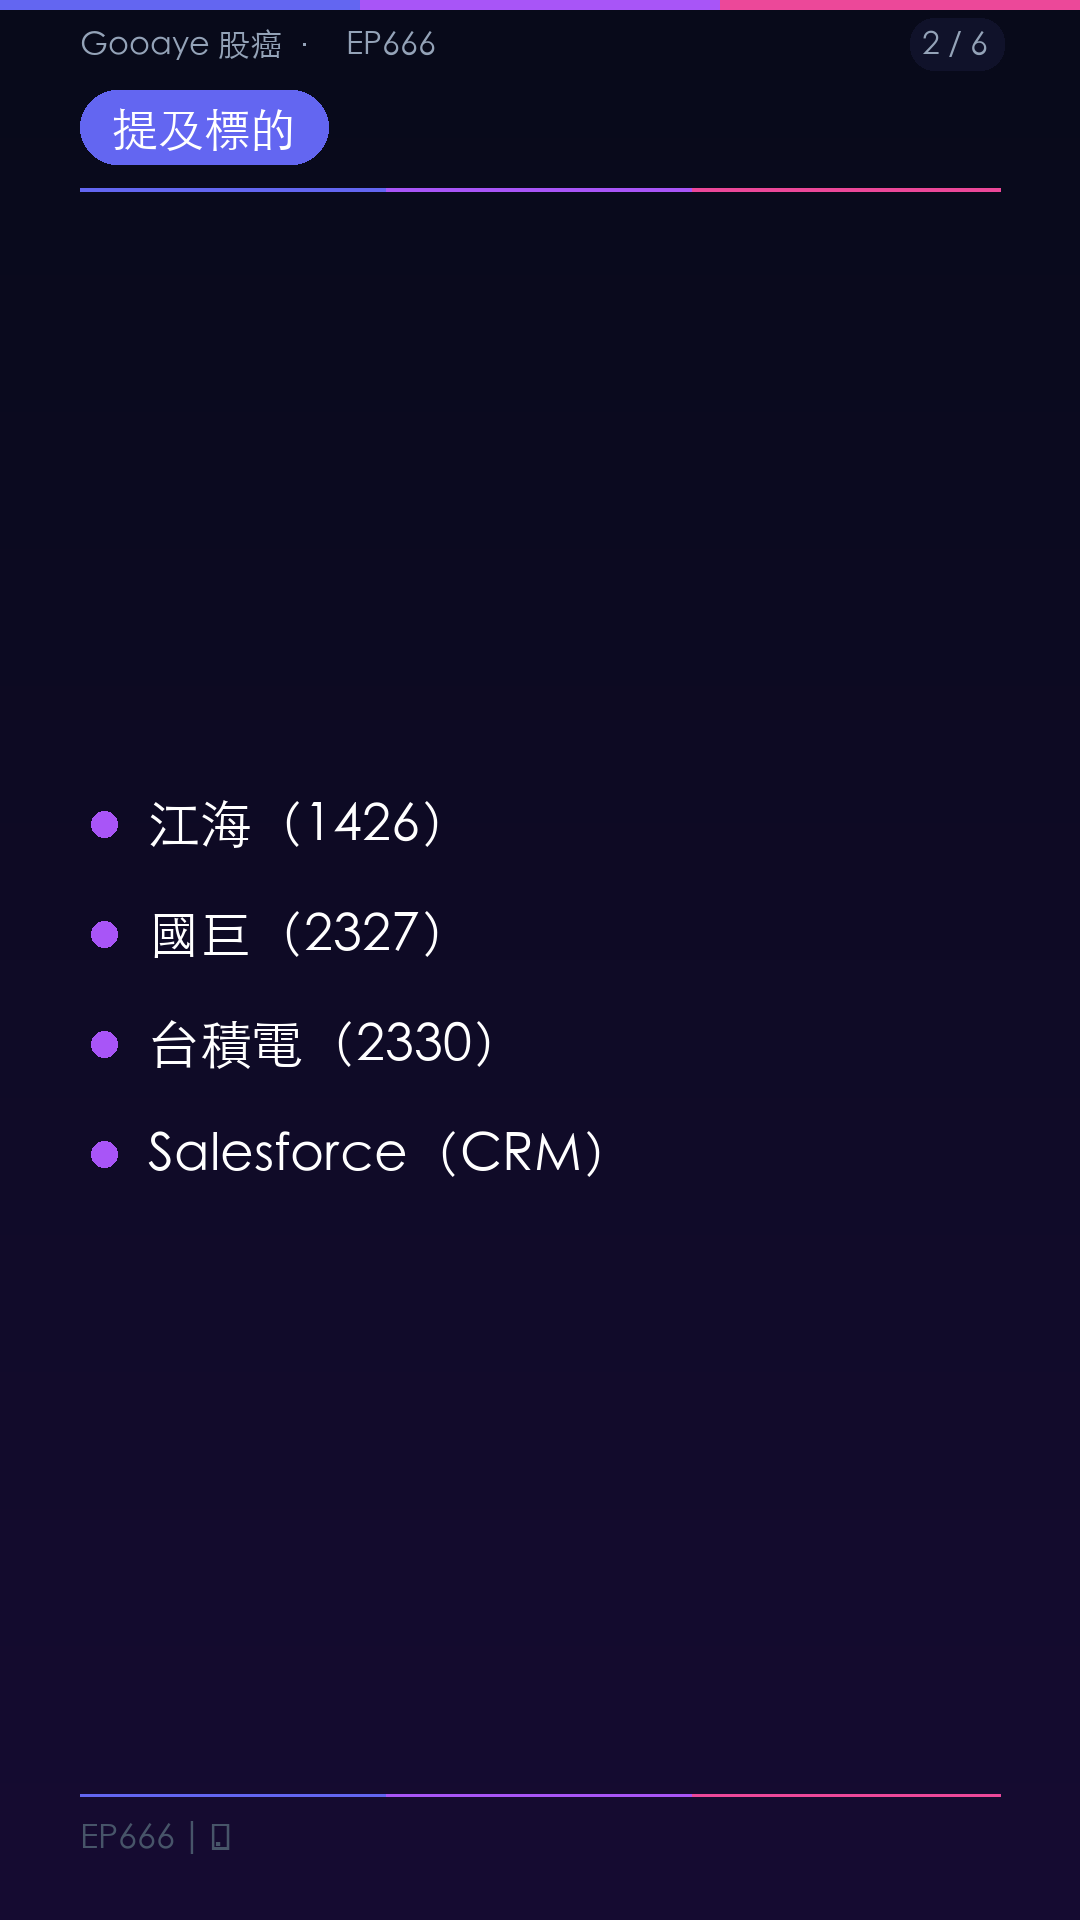
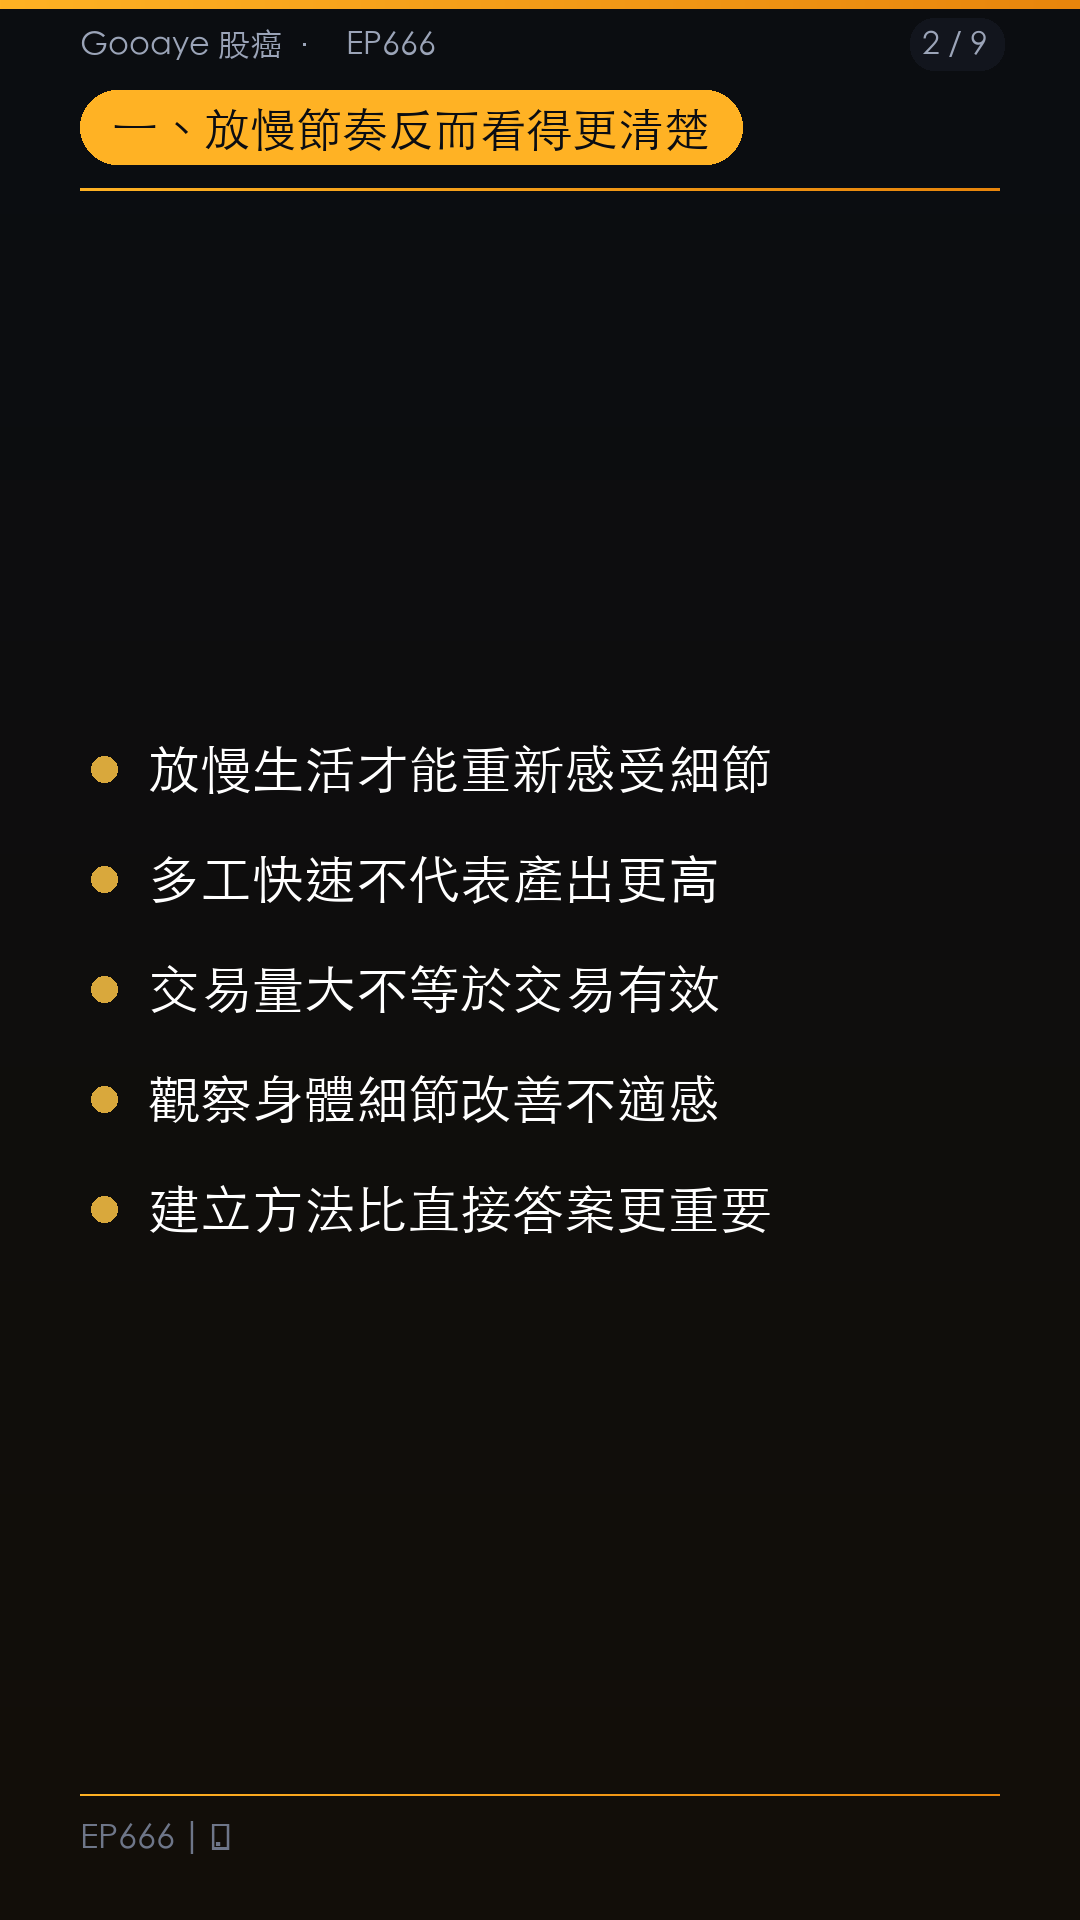
chore: deploy static site — 2026-08-16 09:26

diff --git a/docs/summaries/usGcXJjHwr0.md b/docs/summaries/usGcXJjHwr0.md
@@ -5,202 +5,284 @@ channel_id: UC23rnlQU_qE3cec9x709peA
 channel_name: Gooaye 股癌
 published: 2026-05-30
 processed: 2026-05-30
-hashtags: #被動元件 #AI軟體股 #資金輪動 #鋁電容 #SaaS #Gooaye股癌
-industries: 台股, 美股, AI
+hashtags: #被動元件 #AI應用 #資金輪動 #需求驅動漲價 #企業AI #Gooaye股癌
 ---
 
 # EP666 | 🍐
 
 🔗 [YouTube 觀看原片](https://youtube.com/watch?v=usGcXJjHwr0)
 
-### 核心觀點
+## 本集主題總覽
 
 
+放慢生活節奏後，從日常感受延伸到交易效率、身體覺察與方法論思考
 
-- 作者認為放慢生活節奏、專注當下細節（近似「內觀」或「正念」），不只改善心靈狀態，對身體（如下背痛）也有實質幫助，並認為這比市場話題更根本重要。
 
-- 作者認為市場目前進入「百花齊放」多頭格局，資金從硬體（ODM/OEM）輪動回老AI股、再流向軟體股，是一個有跡可循的循環輪動，不應在任何族群低點時輕易否定其長期價值。
+台股多頭百花齊放，處置股鎖住資金，被動元件漲價由成本驅動轉向需求驅動
 
-- 作者認為被動元件供給缺口不只在MLCC，鋁電容（含SPCAP、OSCON、牛角電容）缺口更大，市場討論度卻不足，屬於被低估的方向。
 
-- 作者認為AI軟體應用進入新階段，未來決勝關鍵不在於模型本身優劣，而在於「業務與商務能力」——能否深入企業端、解決法遵與可歸責性問題的系統整合商，將獲得最大競爭優勢。
+老 AI、ODM／OEM 與軟體股重新輪動，市場資金從光通訊等熱門方向擴散
 
-- 作者認為AI「取代就業」的末日論述是廠商的行銷話術，已引發政治反彈，黃仁勳的「AI提升效率、增加hiring」觀點才是作者長期認同的立場。
 
+AI 應用進入落地階段，資料、業務能力、商務能力與可歸責性成為競爭關鍵
 
 
+企業 AI 從大量生成走向精緻化，真正價值在於能否解決問題、控制風險並持續交付
 
----
 
+## 一、放慢節奏反而看得更清楚
 
-### 提及標的
 
+**從反射變感受**
 
-**個股／公司（台灣）**
 
+過去喝咖啡、吃飯甚至工作都高度目的導向，事情做完卻缺乏記憶。刻意放慢後，開始真正感受到日常細節，也更能記住一天發生的事情。
 
 
-- 鴻海
+**效率未必等於成果**
 
-- 廣達
 
-- 江海（鋁電容，牛角電容缺口來源）
+看似多工、快速、實用主義，不代表產出更好。交易也是如此，交易量很大不等於工作有效，若用龐大成交量只換到微薄報酬，未必值得。
 
-- 國巨（提及MLCC 2018週期對比）
 
-- 光通訊相關股（2025年表現最強硬體）
+**細節改善身體**
 
-- 台積電（TSMC，提及Legacy製程釋放與CPU題材）
 
-- 威剛（SR Lab，提及低點後反彈至300元）
+主委發現自己長期坐得過度挺直，下背持續緊繃；開始觀察身體、呼吸與姿勢後，搭配物理治療與訓練，日間不適明顯改善。
 
 
+**方法比答案重要**
 
-**個股／公司（美國）**
 
+不同人生階段會看到不同重點。比起直接給「四個數字」，更重要的是建立方法，讓沒有人帶領時，仍能自己分析與完成決策。
 
 
-- Salesforce（大規模買回庫藏股）
+## 二、被動元件轉向需求漲價
 
-- ServiceNow（作者提及強勁論述）
 
-- Okta
+**九成資金遭鎖住**
 
-- Snowflake（近期財報優於預期）
 
-- Palantir（2023年軟體噴出案例，二十幾漲至百元以上）
+主委約 90% 資金位於處置股，不少還是 20 分鐘撮合，短期幾乎無法調度。券商額度控管也讓原本「漲就持續加碼」的策略被迫停下。
 
-- Cloudflare、CrowdStrike（2023軟體噴出案例）
 
-- Intel（提及CPU題材）
+**公司開始改口**
 
-- Micron美光（擴產案例討論）
 
-- OpenAI、Anthropic（提及ARR恐怖數字，應用層佔比大）
+一、兩個月前部分公司仍把漲價視為成本驅動，現在說法已逐步轉向需求驅動，代表第三季後的供需狀況比企業先前預期更強。
 
-- Meta（AI模型幻覺問題、資料取用爭議）
 
-- Google（TPU as a Service，與黑石合作）
+**缺貨不限 MLCC**
 
-- Perplexity（Computer Use產品，作者個人使用心得）
 
+除 MLCC 外，鋁電容、SP-CAP、OS-CON、牛角電容也逐步吃緊。逐字稿提到江海相關 MEMO 顯示全球缺口約 20% 多，整體產能不足。
 
 
-**ETF**
+**市場派可能領先**
 
 
+買方可能比供應商更早知道認證與下單規劃，因此公司尚未正式接單時，市場已先交易未來需求；真正接單後，公司態度反而可能快速轉樂觀。
 
-- IGV ETF（軟體股指標，作者視為資金流向軟體的表態指標）
 
-- 0050（提及已從定存概念股變成強勢標竿股）
+## 三、老 AI 與軟體重新輪動
 
 
+**資金回頭老 AI**
 
-**產業／族群**
 
+ODM、OEM、EMS 再度轉強，並非基本面突然變好，而是過去資金曾大幅撤離；近期光通訊等熱門方向休息後，資金重新回頭。
 
 
-- 被動元件（MLCC、鋁電容、牛角電容、SPCAP、OSCON、電阻、電桿）
+**軟體財報證明價值**
 
-- ODM／OEM／EMS
 
-- 光通訊
+Salesforce、ServiceNow、Okta、Snowflake 等被提及，主委觀察到部分公司用回購、營收與獲利成績證明 AI 不一定侵蝕軟體，反而可能形成加分。
 
-- CPU
 
-- GPU／ASIC
+**族群本來就輪動**
 
-- AI軟體股（SaaS轉型、Token-based計費）
 
-- 成熟製程晶圓代工
+AI 好不代表每一家晶圓代工、伺服器或軟體公司都會好，但也不應在族群低潮時全面否定。市場資金會輪流尋找下一個有表態的方向。
 
 
+**多頭百花齊放**
 
 
----
+目前硬體、軟體、被動元件等都有資金參與，重點不是爭論市場對錯，而是觀察哪個方向已經表態，再決定是否跟隨資金效率。
 
 
-### 關鍵數據
+## 四、AI價值轉向資料與商務
 
 
+**通用模型漸趨同質**
 
-- 作者目前約 **90% 資金** 鎖在處置股，部分為 **20分鐘撮合處置股**
 
-- 江海備忘錄顯示牛角電容全球產能缺口約 **20幾%**
+多數模型都以公開網路資訊為基礎，資料來源重疊度高。當通用資料訓練逐漸出現邊際效益遞減，真正差異會轉向專家、封閉與付費資料。
 
-- Palantir案例：股價從 **二十幾元漲至一百多元**
 
-- 威剛（SR Lab）低點後反彈至 **300元**
+**資料變成競爭壁壘**
 
-- 樂花（Leroy）紅酒：村莊級約 **10-12萬**，Rachelberg約 **450萬**，Musigny **破百萬以上**；30年前僅需 **3000元**
 
-- 台灣某聽眾槓桿 **1.2倍**，資產從年初一個奈米戶成長至三個奈米戶
+過去「大數據」常只是累積大量無法利用的資料，AI 導入後能更快找出 pattern 並轉化為結果，因此誰能取得特殊資料，可能獲得更大優勢。
 
-- 台積電TSMC相關題材，券商TP估值已到 **5000**（未納入OpenAI與Terrafab題材）
 
-- 作者本人資產從 **十幾萬** 成長至「遠超」（未揭露具體數字）
+**業務能力超越模型**
 
 
+當各家模型能力逐步接近，能否真正接到企業案、理解需求並完成部署，會比單純宣稱模型多強更重要。業務與商務能力因此成為關鍵差異。
 
 
----
+**使用者只看結果**
 
 
-### 創作者點出的機會
+主委以 Perplexity Computer 為例，使用者不一定在意背後串哪個模型，只在意能否把任務完成。能直接解決問題的平台，就能掌握更高價值。
 
 
+## 五、企業 AI 進入精緻化
 
-- **鋁電容／牛角電容族群**：作者認為市場過度聚焦MLCC，鋁電容缺口更大（全球缺口逾20%），屬於討論度不足但實際更缺的方向，後續漲價空間可能更大。
 
-- **CPU題材**：作者提及市場從GPU/ASIC轉向注意CPU，認為相關族群已有資金流入訊號。
+**企業在意可歸責**
 
-- **軟體股全面復辟**：IGV ETF拉出明顯突破，Snowflake、Okta等財報超預期，作者視為資金重返軟體的表態。
 
-- **系統整合商（SI）／具備企業業務能力的AI部署公司**：作者認為能解決法遵、可歸責性、客製化部署的業者，在下一階段將凌駕於單純模型競爭。
+企業不只要求模型能用，更會在意資料外洩、法遵、侵權與錯誤責任。若由在地 SI 導入，出了問題還能找到負責對象，這本身就是價值。
 
-- **掌握專有資料的公司**：作者認為通用訓練資料邊際效益遞減，能取得封閉式、付費或企業內部資料的公司，將形成護城河。
 
+**幻覺限制正式部署**
 
 
+消費端問錯問題可能只是得到垃圾資訊，但企業若在報稅、資料使用或法遵上出錯，代價更高，因此部署前必須限制 AI 犯錯的空間。
 
----
 
+**生成不等於可使用**
 
-### 風險提示
 
+以 Sora 類生成工具為例，圖像影片能快速產出，不代表能直接商用；角色一致性、版權與後續延用，都需要更穩定的流程與人員管理。
 
 
-- 作者本人90%資金鎖於處置股，坦言若市場急跌「完全跑不掉」，流動性風險極高。
+**從量產走向精緻**
 
-- 融資增速過快，作者觀察到市場已有大量投資人以高槓桿入市，後續若出現國際事件或升息訊號，回檔幅度可能超出預期。
 
-- 作者提醒擴產訊息需判斷時間點與品項：在高檔、供給已知嚴重不足時才宣布大擴產，才是需要警惕的訊號；低檔期擴產反而可能是優勢。
+主委判斷 AI 將從大量生成、快速鋪量，轉向更精緻的企業應用。真正能創造高價值的，是持續交付、風險可控且能處理實際問題的服務。
 
-- 公司派（內部人）持股比例低，存在被惡意收購（takeover）風險，同時反映部分業者對自身長線前景信心不足。
 
-- AI幻覺與錯誤資訊風險：作者以Meta AI為例，指出AI生成內容錯誤但仍獲大量傳播，企業端導入AI面臨法遵與侵權風險。
+## 聽眾 QA
 
 
+**Q：被動元件擴產後，為何股價仍持續上漲？**
 
 
----
 
+- 現在正從成本驅動漲價轉向需求驅動漲價，初期擴產不代表行情立即結束。
 
-### 創作者建議的觀察方向
+- 判斷擴產不能只看「有沒有擴」，還要看擴什麼產品、處於供需循環哪個時間點。
 
+- 若需求持續缺貨，提前擴產反而可能代表未來有更多貨可賣、更多獲利可賺。
 
+- 真正要提高警覺，是行情已充分反映、大家都知道嚴重缺貨後，又出現大規模擴產。
 
-- **被動元件公司法說會與股東會言論**：觀察廠商是否從「成本驅動漲價」改口為「需求驅動漲價」，作者認為這是市場走在公司派前面的關鍵訊號。
+- 同一句「擴產」，在低檔與高檔代表的意義可能完全不同。
 
-- **IGV ETF走勢**：作者視為判斷資金是否正式轉移至軟體股的觀察指標。
 
-- **台灣首富排行動態**：鴻海、廣達等AI硬體業者市值接近，作者認為後續股價變化將帶動「首富賽跑」，可作為族群強弱的側面觀察。
 
-- **TSMC Legacy製程釋出情況**：觀察成熟製程是否因前端製程滿載而帶動後段機會。
+**Q：聯發科與 TerraFab 合作消息怎麼看？**
 
-- **頂尖AI模型公司大量招聘FDE（前沿部署工程師）**：作者認為此趨勢說明業務與客製化部署能力已成競爭核心，可據此觀察各AI公司的商業化進程。
 
-- **AI軟體公司財報**：特別關注採用Token-based計費轉型的老牌SaaS企業，觀察其收入結構調整成果。
+
+- 主委表示當下沒有聽到太多細節。
+
+- 逐字稿提到相關說法似乎來自 Jeff Pu 與郭明錤等分析。
+
+- 因資訊不足，因此沒有進一步做基本面或估值判斷。
+
+- 若後續取得較具體情報，再考慮進一步分享。
+
+
+
+**Q：不同股票是否都該用固定比例停損？**
+
+
+
+- 不建議把固定 10% 等規則機械套用到所有標的。
+
+- 台積電這類大型公司，與高風險小型股的停損邏輯本來就不同。
+
+- 有時甚至會把停損設在市場常見位置再下面一點，避免被洗掉後立刻反彈。
+
+- 紀律本身重要，但實際應用必須依標的特性保留彈性。
+
+
+
+**Q：近期 Intel 的看法？**
+
+
+
+- 主委表示前面已談過，核心觀察仍在 CPU。
+
+- 本段沒有進一步展開 Intel 的估值、財報或策略細節。
+
+
+
+**Q：資產累積到一定程度後，還需要和別人比較嗎？**
+
+
+
+- 主委提到自己的資產相較早期已成長很多倍。
+
+- 但市場上永遠還有資產更多的人，天花板非常高。
+
+- 錢本來就賺不完，因此沒有必要一直拿自己和別人比較。
+
+- 更值得比較的是自己是否持續進步。
+
+
+
+**Q：0050 是否仍只是存錢工具？**
+
+
+
+- 主委回應，0050 現在已不只是單純「存錢」。
+
+- 在當時市場環境下，他甚至形容已經具有「飆股」感受。
+
+- 對長期定期投入者而言，實際結果可能已超過單純儲蓄的概念。
+
+
+
+## 投資心法
+
+
+
+- 交易量不等於效率，真正要看投入的資金與時間是否換來足夠報酬。
+
+- 沒有必要為錯失更高槓桿懊惱，資金受限有時反而替自己保留回檔緩衝。
+
+- 市場派可能早於公司派看到需求，但最終仍要等訂單與獲利驗證。
+
+- 族群會輪動，不要因短期失寵就把整個產業邏輯全部推翻。
+
+- 多頭百花齊放時，重點是挑更有效率的方向，而不是證明自己原本持股最好。
+
+- 擴產本身不是利空，要同時判斷產品、供需、時間點與行情位階。
+
+- 投資規則不能過度僵化，同一套停損方式不適合所有標的。
+
+- 「最好的時間是十年前，再來就是當下」，但主委也強調自己買酒以飲用為主，並未囤貨投資。
+
+
+
+## 提及標的
+
+
+股票／公司：台積電、鴻海、廣達、聯發科、Salesforce、ServiceNow、Okta、Snowflake、NVIDIA、OpenAI、Anthropic、Google、Meta、Micron、美光、Intel、Cloudflare、CrowdStrike、Perplexity、江海、華新科
+
+
+ETF：IGV ETF、0050
+
+
+產業：被動元件、MLCC、鋁電容、SP-CAP、OS-CON、牛角電容、電阻、ODM、OEM、EMS、AI Server、CPU、GPU、ASIC、光通訊、晶圓代工、成熟製程、AI 軟體、企業軟體、Neocloud、TPU as a Service、SI 系統整合、AI Deployment
+
+
+市場：台股、美股、日本被動元件市場、軟體股、老 AI、AI 硬體、企業 AI、生成式 AI
 
 ---
 **⚠ 負責任 AI 聲明與投資風險提示：**
